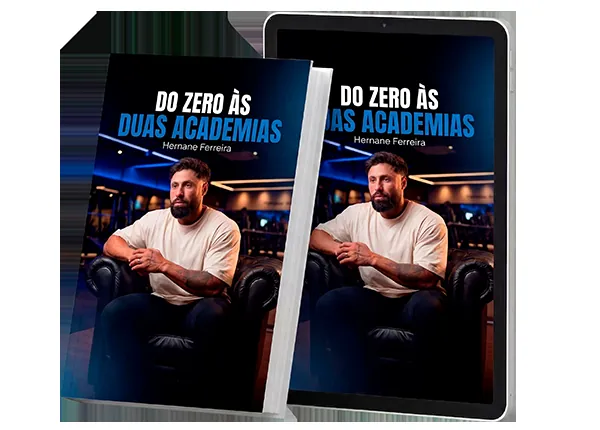
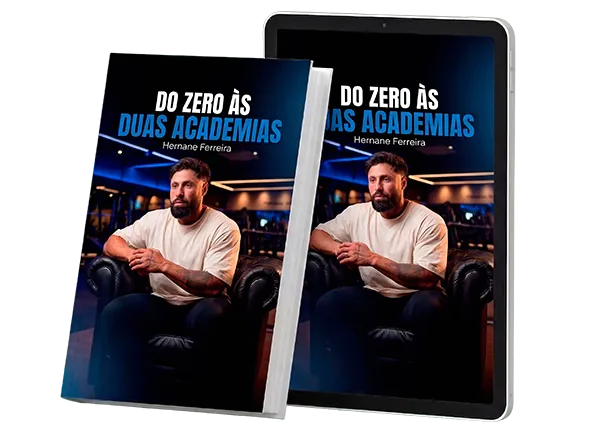
Final fix for hero layout and mockup transparency/distortion

Changed region(s): [[0.09, 0.0, 0.81, 0.9977], [0.84, 0.3326, 0.87, 0.9977], [0.51, 0.0, 0.87, 0.0907]]

diff --git a/style.css b/style.css
@@ -781,7 +781,8 @@ figcaption span   { font-size: 12px; color: var(--gray-3); }
 
 .mockup-img {
   width: 100%;
-  height: auto; /* Fix distortion */
+  height: auto;
+  display: block;
   position: relative;
   z-index: 1;
   filter: drop-shadow(0 18px 48px rgba(0,0,0,0.7));
@@ -1032,6 +1033,7 @@ figcaption span   { font-size: 12px; color: var(--gray-3); }
     align-items: center;
     position: relative;
     overflow: hidden;
+    background-image: none !important; /* Ensure no tiling/legacy bg */
   }
 
   .hero-picture {
@@ -1042,8 +1044,10 @@ figcaption span   { font-size: 12px; color: var(--gray-3); }
   }
 
   .hero-img {
+    width: 100%;
     height: 100%;
     max-height: none;
+    object-fit: cover !important;
     object-position: right center;
   }
 

diff --git a/index.html b/index.html
@@ -280,8 +280,7 @@
             alt="E-book Do Zero às Duas Academias em tablet"
             class="mockup-img"
             loading="lazy"
-            decoding="async"
-            width="800">
+            decoding="async">
         </div>
 
         <div class="pricing-card" data-reveal="right" data-delay="1">
